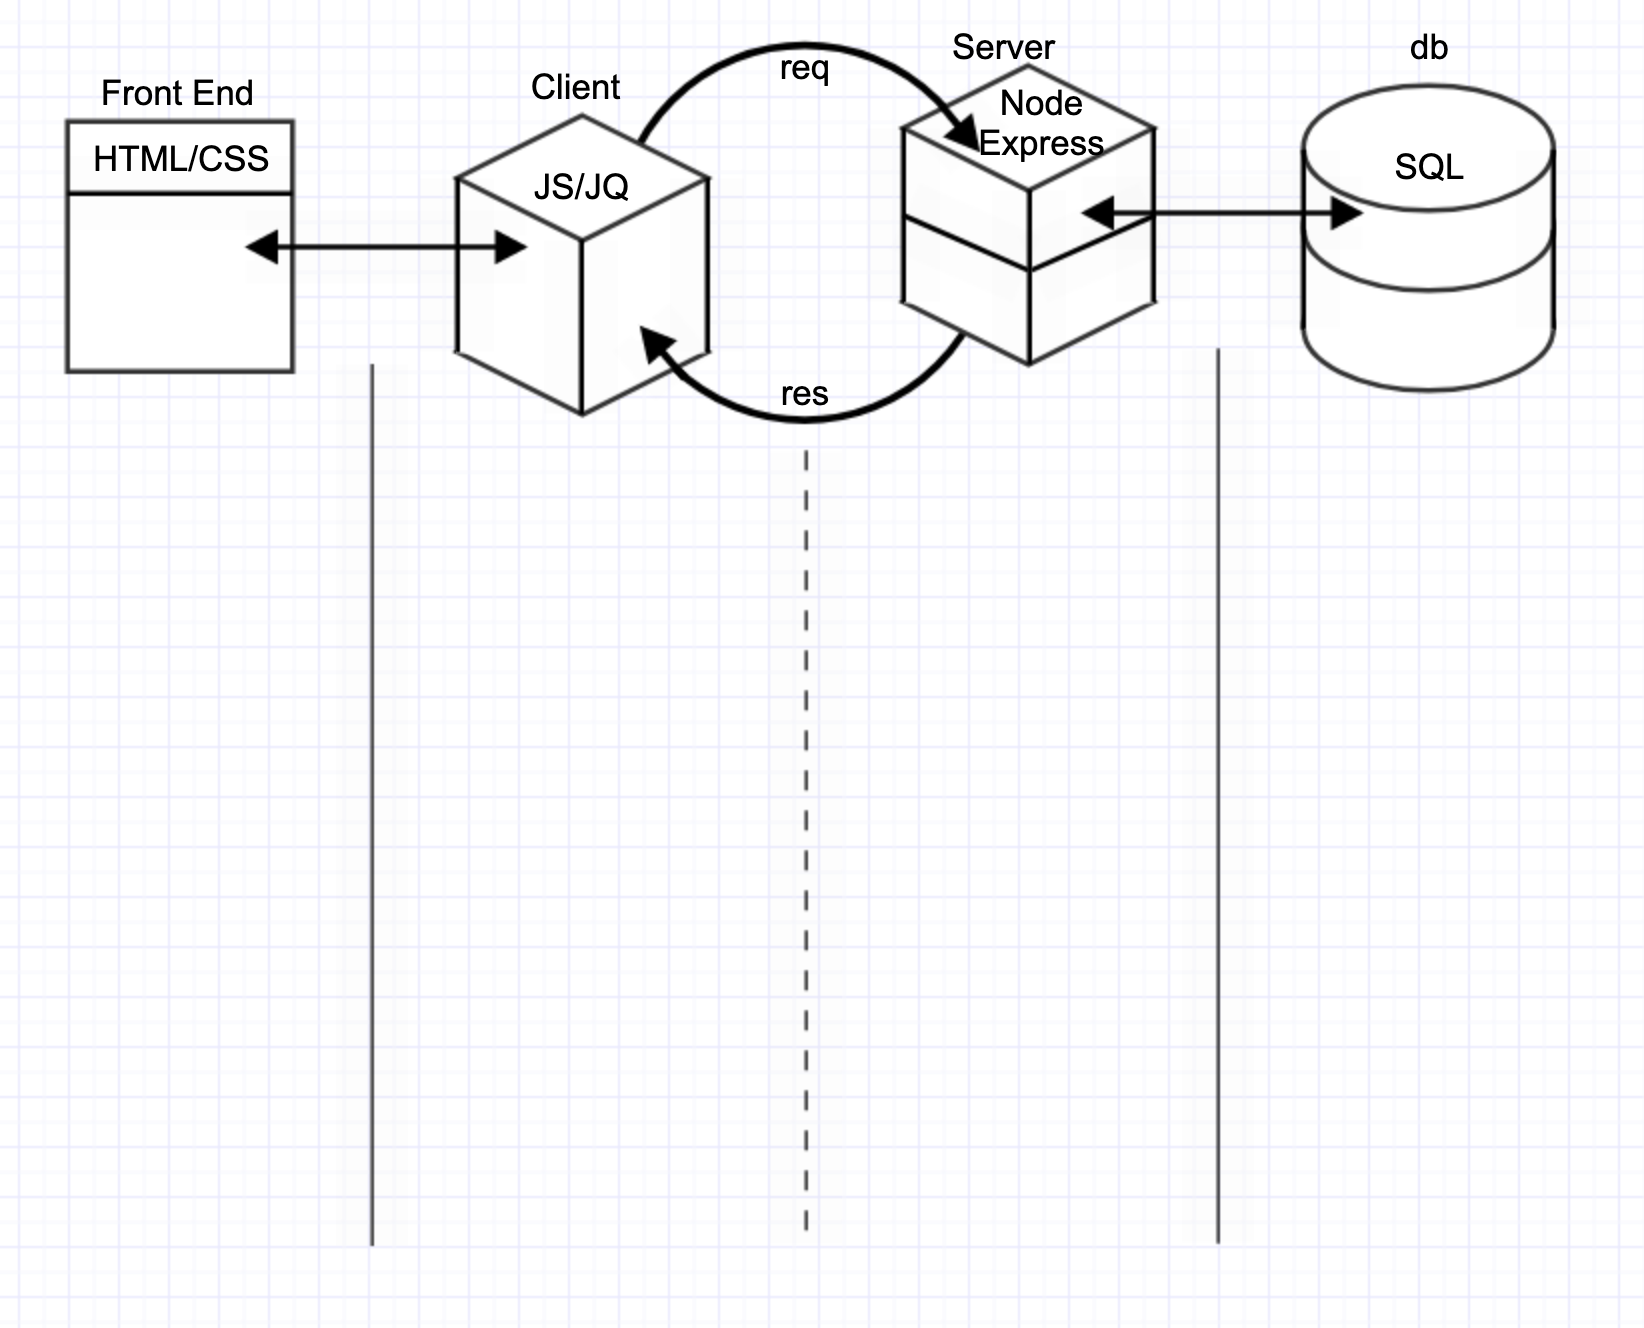
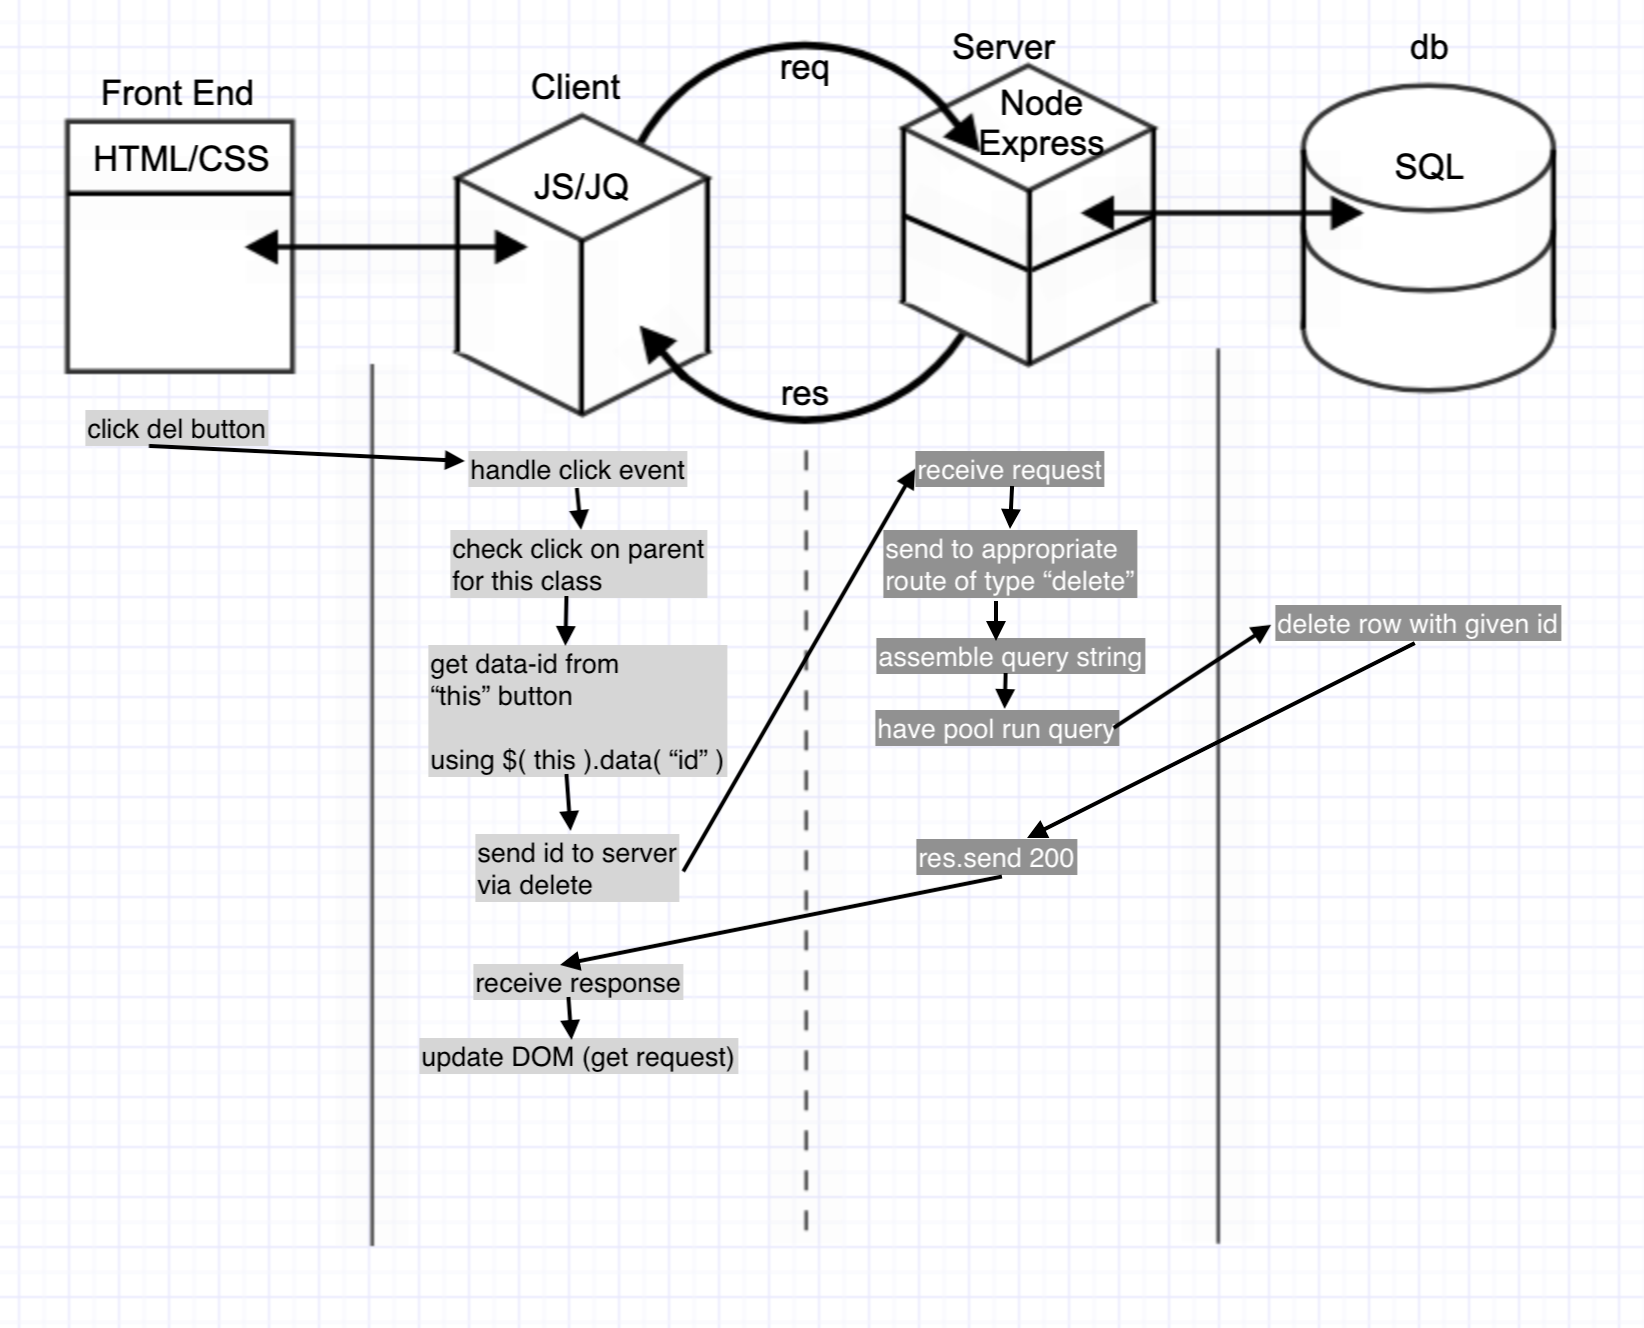
delete working

diff --git a/server/public/scripts/client.js b/server/public/scripts/client.js
@@ -25,13 +25,18 @@ function addBird(){
 }
 
 function deleteBird(){
-    console.log( 'in deleteBird' );
-}
-
-function onReady(){
-    getBirds();
-    $( '#addBirdButton' ).on( 'click', addBird );
-    $( '#birdsOut' ).on( 'click', '.deleteBirdButton', deleteBird );
+    console.log( 'in deleteBird:', $( this ).data( 'id' ) );
+    // send this to server via a delete request
+    $.ajax({
+        type: "DELETE",
+        url: '/birds/' + $( this ).data( 'id' )
+    }).then( function( response ){
+        console.log( 'back from delete with:', response );
+        getBirds();
+    }).catch( function( err ){
+        console.log( err );
+        alert( 'problem!' );
+    })
 }
 
 function getBirds(){
@@ -44,8 +49,9 @@ function getBirds(){
         el.empty();
 
         for( let i=0; i< response.length; i++ ){
+            // in our button we are using "data-id" to hold the id of each bird
             el.append( `<li>
-                <button class="deleteBirdButton">Delete</button>
+                <button class="deleteBirdButton" data-id=${ response[i].id }>Delete</button>
                 ${ response[i].first_name }
                 ${ response[i].last_name }: 
                 born ${ response[i].dob.split( "T" )[0] }, 
@@ -56,4 +62,11 @@ function getBirds(){
         console.log( err );
         alert( 'nope' );
     }) //end AJAX
+}
+
+function onReady(){
+    getBirds();
+    $( '#addBirdButton' ).on( 'click', addBird );
+    // since each deleteBirdButton is dynamically created, we will check their parent for click events
+    $( '#birdsOut' ).on( 'click', '.deleteBirdButton', deleteBird );
 }

diff --git a/server/modules/birds.route.js b/server/modules/birds.route.js
@@ -3,6 +3,18 @@ const express = require( 'express' );
 const router = express.Router();
 const pool = require( './pool' );
 // routes
+router.delete( '/:id' , ( req, res )=>{
+    console.log( '/birds DELETE hit:', req.params.id );
+    // have pool run a delete
+    let queryString = `DELETE FROM "birds" WHERE "id"=${ req.params.id };`;
+    pool.query( queryString ).then( ( results )=>{
+        res.send( 200 );
+    }).catch( ( err )=>{
+        console.log( err );
+        res.send( 500 );
+    })
+}) // end /birds DELETE 
+
 router.get( '/', ( req, res )=>{
     console.log( '/birds GET' );
     /// - query: SELECT * FROM "birds" - ///
